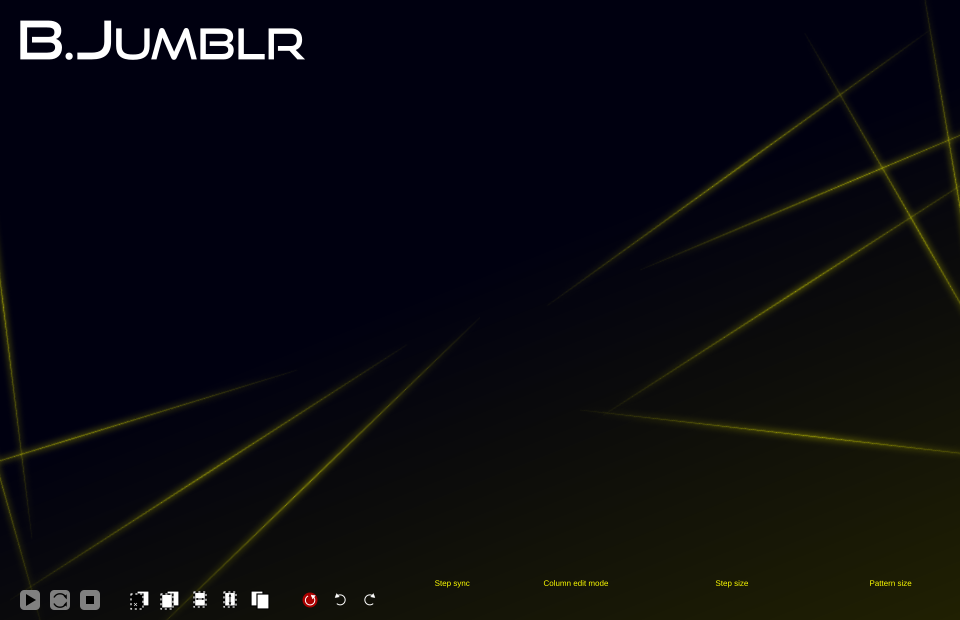
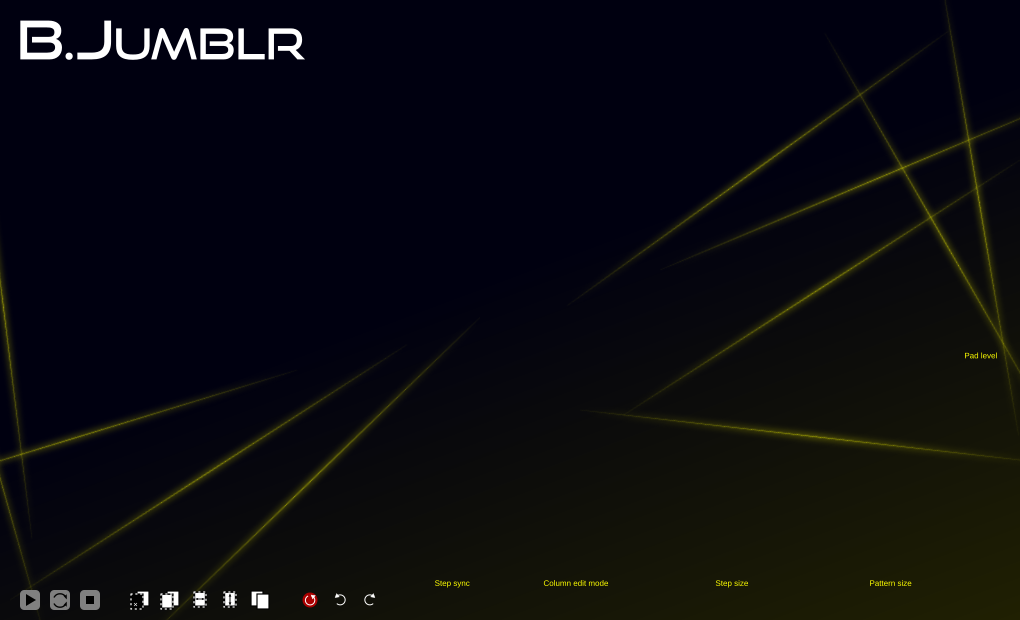
Simplify change level
* GUI size inceased
* Buttons and dial added
* Pick pad properties on right click
* Readme: video

diff --git a/src/BJumblrGUI.cpp b/src/BJumblrGUI.cpp
@@ -23,13 +23,13 @@
 #include "MessageDefinitions.hpp"
 
 BJumblrGUI::BJumblrGUI (const char *bundle_path, const LV2_Feature *const *features, PuglNativeWindow parentWindow) :
-	Window (960, 620, "B.Jumblr", parentWindow, true),
+	Window (1020, 620, "B.Jumblr", parentWindow, true),
 	controller (NULL), write_function (NULL),
 	pluginPath (bundle_path ? std::string (bundle_path) : std::string ("")),
 	sz (1.0), bgImageSurface (nullptr),
 	uris (), forge (), editMode (0), clipBoard (),
 	cursor (0), wheelScrolled (false), padPressed (false), deleteMode (false),
-	mContainer (0, 0, 960, 620, "main"),
+	mContainer (0, 0, 1020, 620, "main"),
 	messageLabel (440, 45, 380, 20, "ctlabel", ""),
 	padSurface (18, 88, 924, 484, "box"),
 	playButton (18, 588, 24, 24, "widget", "Play"),
@@ -46,12 +46,16 @@ BJumblrGUI::BJumblrGUI (const char *bundle_path, const LV2_Feature *const *featu
 			 BItems::ItemList ({{0.0625, "1/16"}, {0.125, "1/8"}, {0.25, "1/4"}, {0.5, "1/2"}, {1, "1"}, {2, "2"}, {4, "4"}}), 1),
 	stepBaseListBox (730, 590, 90, 20, 0, -80, 90, 80, "menu", BItems::ItemList ({{0, "Seconds"}, {1, "Beats"}, {2, "Bars"}}), 1),
 	padSizeListBox (850, 590, 90, 20, 0, -140, 100, 140, "menu",
-		     BItems::ItemList ({{4, "4 Steps"}, {8, "8 Steps"}, {12, "12 Steps"}, {16, "16 Steps"}, {24, "24 Steps"}, {32, "32 Steps"}}), 16)
+		     BItems::ItemList ({{4, "4 Steps"}, {8, "8 Steps"}, {12, "12 Steps"}, {16, "16 Steps"}, {24, "24 Steps"}, {32, "32 Steps"}}), 16),
+	levelDial (960, 520, 40, 48, "dial", 1.0, 0.0, 1.0, 0.01, "%1.2f")
 
 {
 	// Init editButtons
 	for (int i = 0; i < EDIT_RESET; ++i) edit1Buttons[i] = HaloToggleButton (128 + i * 30, 588, 24, 24, "widget", editLabels[i]);
 	for (int i = 0; i < MAXEDIT - EDIT_RESET; ++i) edit2Buttons[i] = HaloButton (298 + i * 30, 588, 24, 24, "widget", editLabels[i + EDIT_RESET]);
+
+	for (int i = 0; i < 5; ++i) levelButtons[i] = HaloToggleButton (958, 368 + i * 30, 44, 22, "widget", std::to_string (1.0 - 0.25 * double(i)));
+	levelButtons[0].setValue (1.0);
 
 	// Link controllerWidgets
 	controllerWidgets[PLAY] = (BWidgets::ValueWidget*) &playButton;
@@ -75,6 +79,8 @@ BJumblrGUI::BJumblrGUI (const char *bundle_path, const LV2_Feature *const *featu
 	editModeListBox.setCallbackFunction (BEvents::VALUE_CHANGED_EVENT, valueChangedCallback);
 	for (int i = 0; i < EDIT_RESET; ++i) edit1Buttons[i].setCallbackFunction (BEvents::VALUE_CHANGED_EVENT, edit1ChangedCallback);
 	for (int i = 0; i < MAXEDIT - EDIT_RESET; ++i) edit2Buttons[i].setCallbackFunction (BEvents::VALUE_CHANGED_EVENT, edit2ChangedCallback);
+	for (int i = 0; i < 5; ++i) levelButtons[i].setCallbackFunction (BEvents::VALUE_CHANGED_EVENT, levelChangedCallback);
+	levelDial.setCallbackFunction (BEvents::VALUE_CHANGED_EVENT, levelChangedCallback);
 
 	padSurface.setDraggable (true);
 	padSurface.setCallbackFunction (BEvents::BUTTON_PRESS_EVENT, padsPressedCallback);
@@ -84,8 +90,14 @@ BJumblrGUI::BJumblrGUI (const char *bundle_path, const LV2_Feature *const *featu
 	padSurface.setScrollable (true);
 	padSurface.setCallbackFunction (BEvents::WHEEL_SCROLL_EVENT, padsScrolledCallback);
 
-	// Apply theme
+	// Load background & apply theme
 	bgImageSurface = cairo_image_surface_create_from_png ((pluginPath + BG_FILE).c_str());
+	for (int i = 0; i < 5; ++i)
+	{
+		BColors::Color col = BColors::yellow;
+		col.applyBrightness (- 0.25 * double(i));
+		drawButton (bgImageSurface, 960, 370 + i * 30, 40, 18, col);
+	}
 	widgetBg.loadFillFromCairoSurface (bgImageSurface);
 	applyTheme (theme);
 
@@ -106,6 +118,8 @@ BJumblrGUI::BJumblrGUI (const char *bundle_path, const LV2_Feature *const *featu
 	mContainer.add (stepBaseListBox);
 	mContainer.add (padSizeListBox);
 	mContainer.add (padSurface);
+	for (int i = 0; i < 5; ++i) mContainer.add (levelButtons[i]);
+	mContainer.add (levelDial);
 
 	drawPad();
 	add (mContainer);
@@ -313,7 +327,7 @@ void BJumblrGUI::resize ()
 	lfLabelFont.setFontSize (12 * sz);
 
 	//Background
-	cairo_surface_t* surface = cairo_image_surface_create (CAIRO_FORMAT_ARGB32, 960 * sz, 620 * sz);
+	cairo_surface_t* surface = cairo_image_surface_create (CAIRO_FORMAT_ARGB32, 1020 * sz, 620 * sz);
 	cairo_t* cr = cairo_create (surface);
 	cairo_scale (cr, sz, sz);
 	cairo_set_source_surface(cr, bgImageSurface, 0, 0);
@@ -323,7 +337,7 @@ void BJumblrGUI::resize ()
 	cairo_surface_destroy (surface);
 
 	//Scale widgets
-	RESIZE (mContainer, 0, 0, 960, 620, sz);
+	RESIZE (mContainer, 0, 0, 1020, 620, sz);
 	RESIZE (messageLabel, 440, 45, 380, 20, sz);
 	RESIZE (padSurface, 18, 88, 924, 484, sz);
 	RESIZE (playButton, 18, 588, 24, 24, sz);
@@ -352,6 +366,8 @@ void BJumblrGUI::resize ()
 	padSizeListBox.resizeListBox(BUtilities::Point (90 * sz, 140 * sz));
 	padSizeListBox.moveListBox(BUtilities::Point (0, -140 * sz));
 	padSizeListBox.resizeListBoxItems(BUtilities::Point (90 * sz, 20 * sz));
+	for (int i = 0; i < 5; ++i) RESIZE (levelButtons[i], 958, 368 + 30 * i, 44, 22, sz);
+	RESIZE (levelDial, 960, 520, 40, 48, sz);
 
 	applyTheme (theme);
 	drawPad ();
@@ -377,13 +393,15 @@ void BJumblrGUI::applyTheme (BStyles::Theme& theme)
 	stepSizeListBox.applyTheme (theme);
 	stepBaseListBox.applyTheme (theme);
 	padSizeListBox.applyTheme (theme);
+	for (int i = 0; i < 5; ++i) levelButtons[i].applyTheme (theme);
+	levelDial.applyTheme (theme);
 }
 
 void BJumblrGUI::onConfigureRequest (BEvents::ExposeEvent* event)
 {
 	Window::onConfigureRequest (event);
 
-	sz = (getWidth() / 960 > getHeight() / 620 ? getHeight() / 620 : getWidth() / 960);
+	sz = (getWidth() / 1020 > getHeight() / 620 ? getHeight() / 620 : getWidth() / 1020);
 	resize ();
 }
 
@@ -564,6 +582,44 @@ void BJumblrGUI::valueChangedCallback(BEvents::Event* event)
 			ui->playButton.setValue (0.0);
 			ui->bypassButton.setValue (0.0);
 		}
+	}
+}
+
+void BJumblrGUI::levelChangedCallback(BEvents::Event* event)
+{
+	if (!event) return;
+	BWidgets::ValueWidget* widget = (BWidgets::ValueWidget*) event->getWidget ();
+	if (!widget) return;
+	float value = widget->getValue();
+	BJumblrGUI* ui = (BJumblrGUI*) widget->getMainWindow();
+	if (!ui) return;
+
+	if (widget == &ui->levelDial)
+	{
+		for (int i = 0; i < 5; ++i)
+		{
+			if (value == 1.0 - double (i) * 0.25) ui->levelButtons[i].setValue (1.0);
+			else ui->levelButtons[i].setValue (0.0);
+		}
+	}
+
+	else
+	{
+
+		int buttonNr = -1;
+
+		// Identify controller
+		for (int i = 0; i < 5; ++i)
+		{
+			if (widget == &ui->levelButtons[i])
+			{
+				buttonNr = i;
+				break;
+			}
+		}
+
+		// Controllers
+		if ((buttonNr >= 0) && (value == 1.0)) ui->levelDial.setValue (1.0 - double (buttonNr) * 0.25);
 	}
 }
 
@@ -788,13 +844,18 @@ void BJumblrGUI::padsPressedCallback (BEvents::Event* event)
 					// Set (or unset) pad
 					else
 					{
-						if (!ui->padPressed) ui->deleteMode = ((oldPad.level == 1.0) && (ui->editMode != 1));
-						Pad newPad = (ui->deleteMode ? Pad (0.0) : Pad (1.0));
+						if (!ui->padPressed) ui->deleteMode = ((oldPad.level == ui->levelDial.getValue()) && (ui->editMode != 1));
+						Pad newPad = (ui->deleteMode ? Pad (0.0) : Pad (ui->levelDial.getValue()));
 						if (!ui->validatePad (row, step, newPad)) ui->drawPad();
 						else ui->drawPad (row,step);
 					}
 
 					ui->padPressed = true;
+				}
+
+				else if (pointerEvent->getButton() == BDevices::RIGHT_BUTTON)
+				{
+					ui->levelDial.setValue (ui->pattern.getPad (row, step).level);
 				}
 			}
 		}
@@ -1113,10 +1174,10 @@ LV2UI_Handle instantiate (const LV2UI_Descriptor *descriptor,
 	double sz = 1.0;
 	int screenWidth  = getScreenWidth ();
 	int screenHeight = getScreenHeight ();
-	if ((screenWidth < 690) || (screenHeight < 460)) sz = 0.5;
-	else if ((screenWidth < 1000) || (screenHeight < 660)) sz = 0.66;
+	if ((screenWidth < 730) || (screenHeight < 460)) sz = 0.5;
+	else if ((screenWidth < 1060) || (screenHeight < 660)) sz = 0.66;
 
-	if (resize) resize->ui_resize(resize->handle, 960 * sz, 620 * sz);
+	if (resize) resize->ui_resize(resize->handle, 1020 * sz, 620 * sz);
 
 	*widget = (LV2UI_Widget) puglGetNativeWindow (ui->getPuglView ());
 

diff --git a/src/BJumblrGUI.hpp b/src/BJumblrGUI.hpp
@@ -90,6 +90,7 @@ public:
 
 private:
 	static void valueChangedCallback(BEvents::Event* event);
+	static void levelChangedCallback(BEvents::Event* event);
 	static void edit1ChangedCallback(BEvents::Event* event);
 	static void edit2ChangedCallback(BEvents::Event* event);
 	static void padsPressedCallback (BEvents::Event* event);
@@ -171,14 +172,12 @@ private:
 	BWidgets::PopupListBox stepSizeListBox;
 	BWidgets::PopupListBox stepBaseListBox;
 	BWidgets::PopupListBox padSizeListBox;
+	std::array<HaloToggleButton, 5> levelButtons;
+	BWidgets::DialValue levelDial;
 
 
 	// Definition of styles
-	BColors::ColorSet fgColors = {{{0.0, 0.25, 0.75, 1.0}, {0.25, 0.75, 0.75, 1.0}, {0.0, 0.0, 0.1, 1.0}, {0.0, 0.0, 0.0, 0.0}}};
-	BColors::ColorSet fgColors_ch1 = {{{0.0, 0.25, 0.75, 1.0}, {0.25, 0.75, 0.75, 1.0}, {0.0, 0.0, 0.1, 1.0}, {0.0, 0.0, 0.0, 0.0}}};
-	BColors::ColorSet fgColors_ch2 = {{{0.75, 0.0, 0.75, 1.0}, {0.75, 0.25, 0.75, 1.0}, {0.1, 0.0, 0.1, 1.0}, {0.0, 0.0, 0.0, 0.0}}};
-	BColors::ColorSet fgColors_ch3 = {{{0.875, 0.4235, 0.0, 1.0}, {0.875, 0.75, 0.25, 1.0}, {0.1, 0.05, 0.0, 1.0}, {0.0, 0.0, 0.0, 0.0}}};
-	BColors::ColorSet fgColors_ch4 = {{{0.75, 0.75, 0.0, 1.0}, {0.75, 0.75, 0.75, 1.0}, {0.1, 0.1, 0.0, 1.0}, {0.0, 0.0, 0.0, 0.0}}};
+	BColors::ColorSet fgColors = {{{0.75, 0.75, 0.0, 1.0}, {1.0, 1.0, 0.25, 1.0}, {0.1, 0.1, 0.0, 1.0}, {0.0, 0.0, 0.0, 0.0}}};
 	BColors::ColorSet txColors = {{{0.75, 0.75, 0.0, 1.0}, {1.0, 1.0, 0.0, 1.0}, {0.1, 0.1, 0.0, 1.0}, {0.0, 0.0, 0.0, 0.0}}};
 	BColors::ColorSet tgColors = {{BColors::grey, BColors::white, BColors::grey, BColors::darkgrey}};
 	BColors::ColorSet bgColors = {{{0.15, 0.15, 0.15, 1.0}, {0.3, 0.3, 0.3, 1.0}, {0.05, 0.05, 0.05, 1.0}, {0.0, 0.0, 0.0, 1.0}}};
@@ -236,6 +235,12 @@ private:
 					 {"bgcolors", STYLEPTR (&tgBgColors)},
 					 {"font", STYLEPTR (&tgLabelFont)}}},
 		{"tgbutton/focus",	{{"uses", STYLEPTR (&focusStyles)}}},
+		{"dial", 		{{"uses", STYLEPTR (&defaultStyles)},
+					 {"fgcolors", STYLEPTR (&fgColors)},
+					 {"bgcolors", STYLEPTR (&bgColors)},
+					 {"textcolors", STYLEPTR (&fgColors)},
+					 {"font", STYLEPTR (&ctLabelFont)}}},
+		{"dial/focus", 		{{"uses", STYLEPTR (&focusStyles)}}},
 		{"ctlabel",	 	{{"uses", STYLEPTR (&labelStyles)}}},
 		{"lflabel",	 	{{"uses", STYLEPTR (&labelStyles)},
 					 {"font", STYLEPTR (&lfLabelFont)}}},

diff --git a/src/drawbutton.hpp b/src/drawbutton.hpp
@@ -9,10 +9,8 @@ void drawButton (cairo_t* cr, double x, double y, double width, double height, B
 	if ((width <= 0) || (height <= 0)) return;
 
 	// Draw button
-	BColors::Color illuminated2 = color; illuminated2.applyBrightness (0.33);
 	BColors::Color illuminated = color; illuminated.applyBrightness (0.05);
 	BColors::Color darkened = color; darkened.applyBrightness (-0.33);
-	BColors::Color darkened2 = color; darkened2.applyBrightness (-0.67);
 	cairo_pattern_t* pat = cairo_pattern_create_radial (x + width / 2, y + height / 2, 0.125 * width, x + width / 2, y + height / 2, 0.5 * width);
 
 	cairo_pattern_add_color_stop_rgba (pat, 0.0, CAIRO_RGBA (illuminated));

diff --git a/README.md b/README.md
@@ -70,4 +70,7 @@ REPLACE mode results in their replacement by default pads.
 
 ## TODO
 
-* Add dry/wet option (?)
+* Hover effect: show pad properties
+
+## Links
+* Preview video: https://www.youtube.com/watch?v=n3LrpOD8MrI
